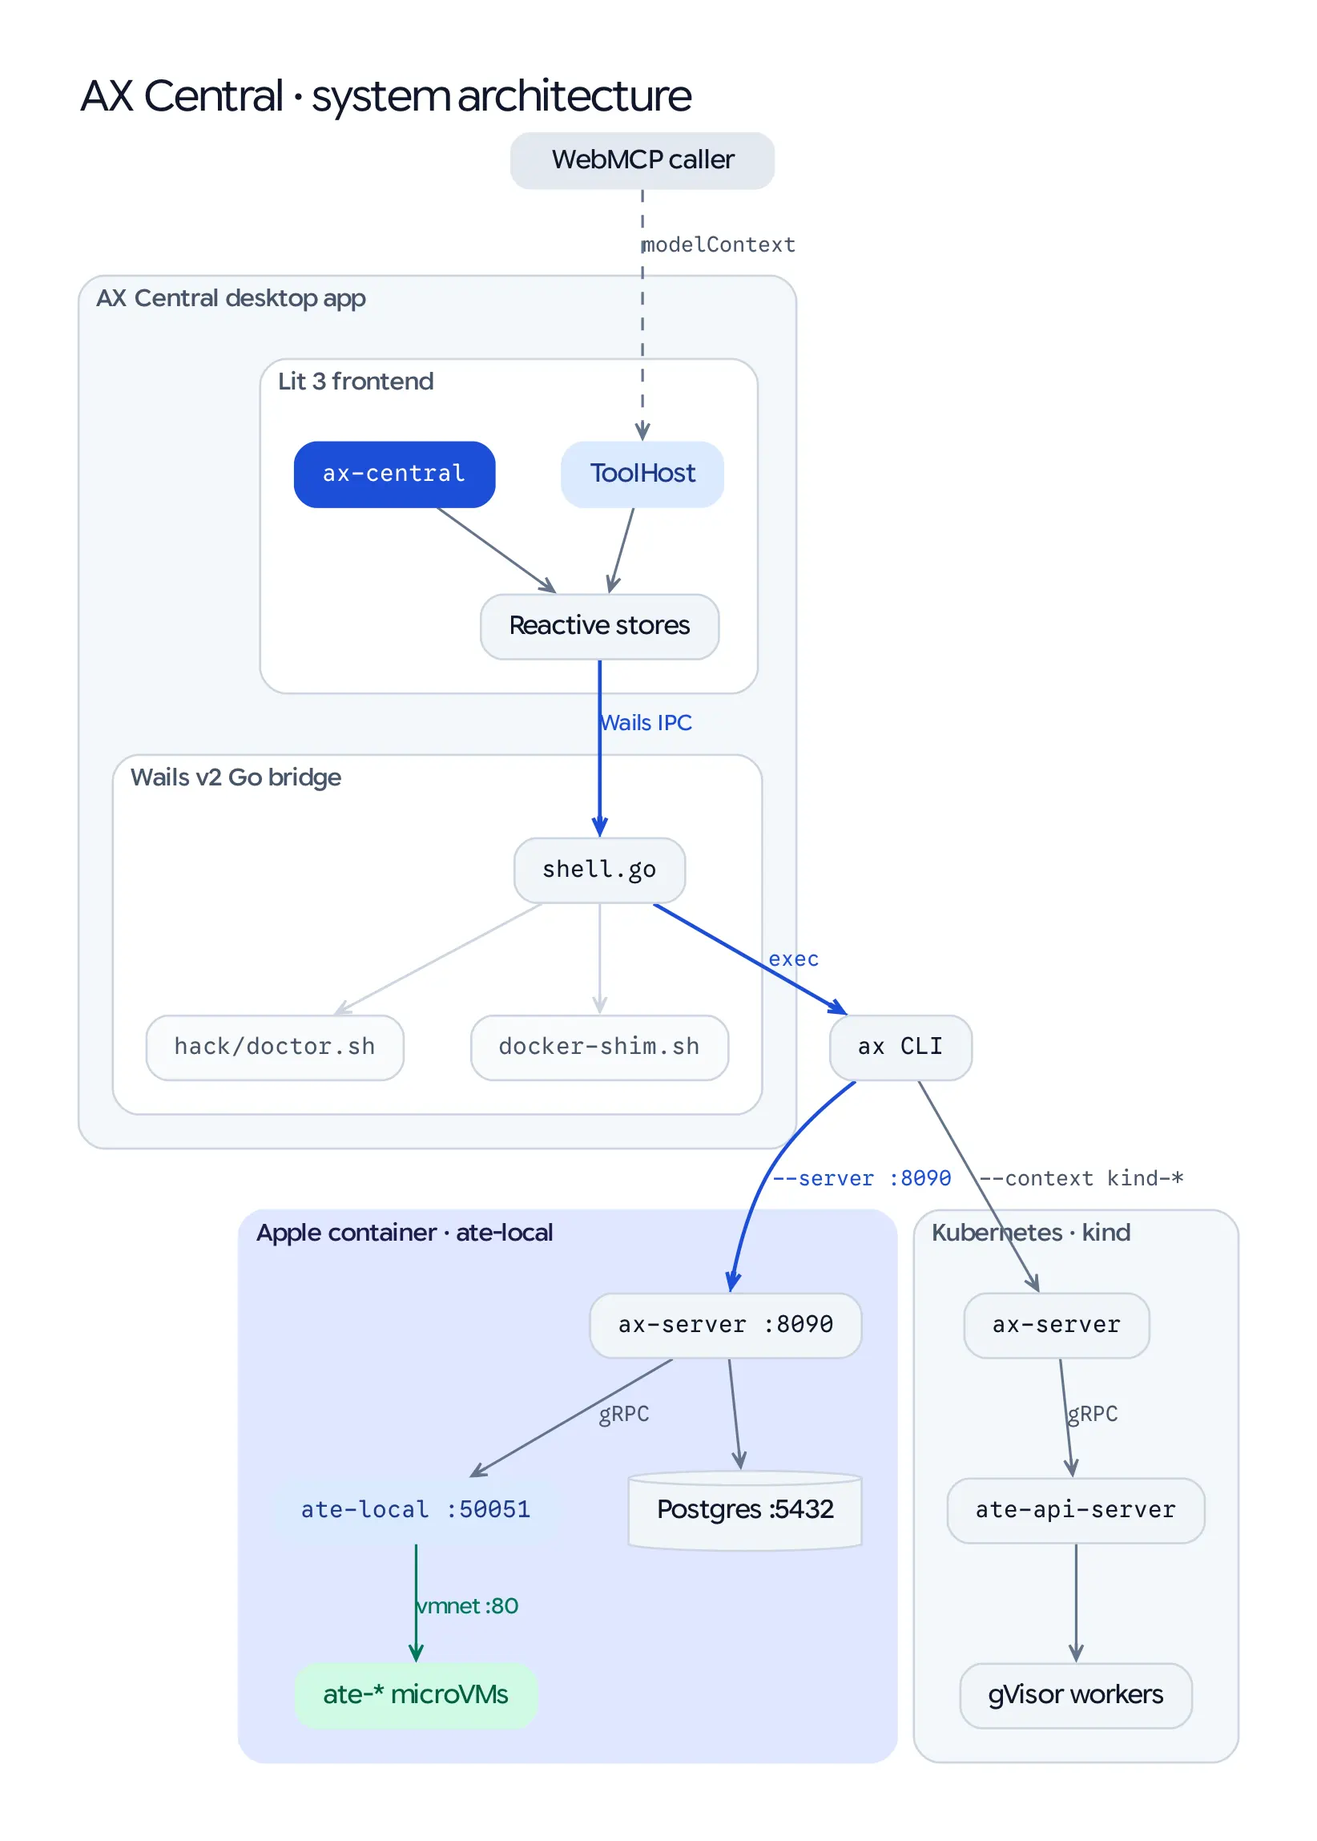
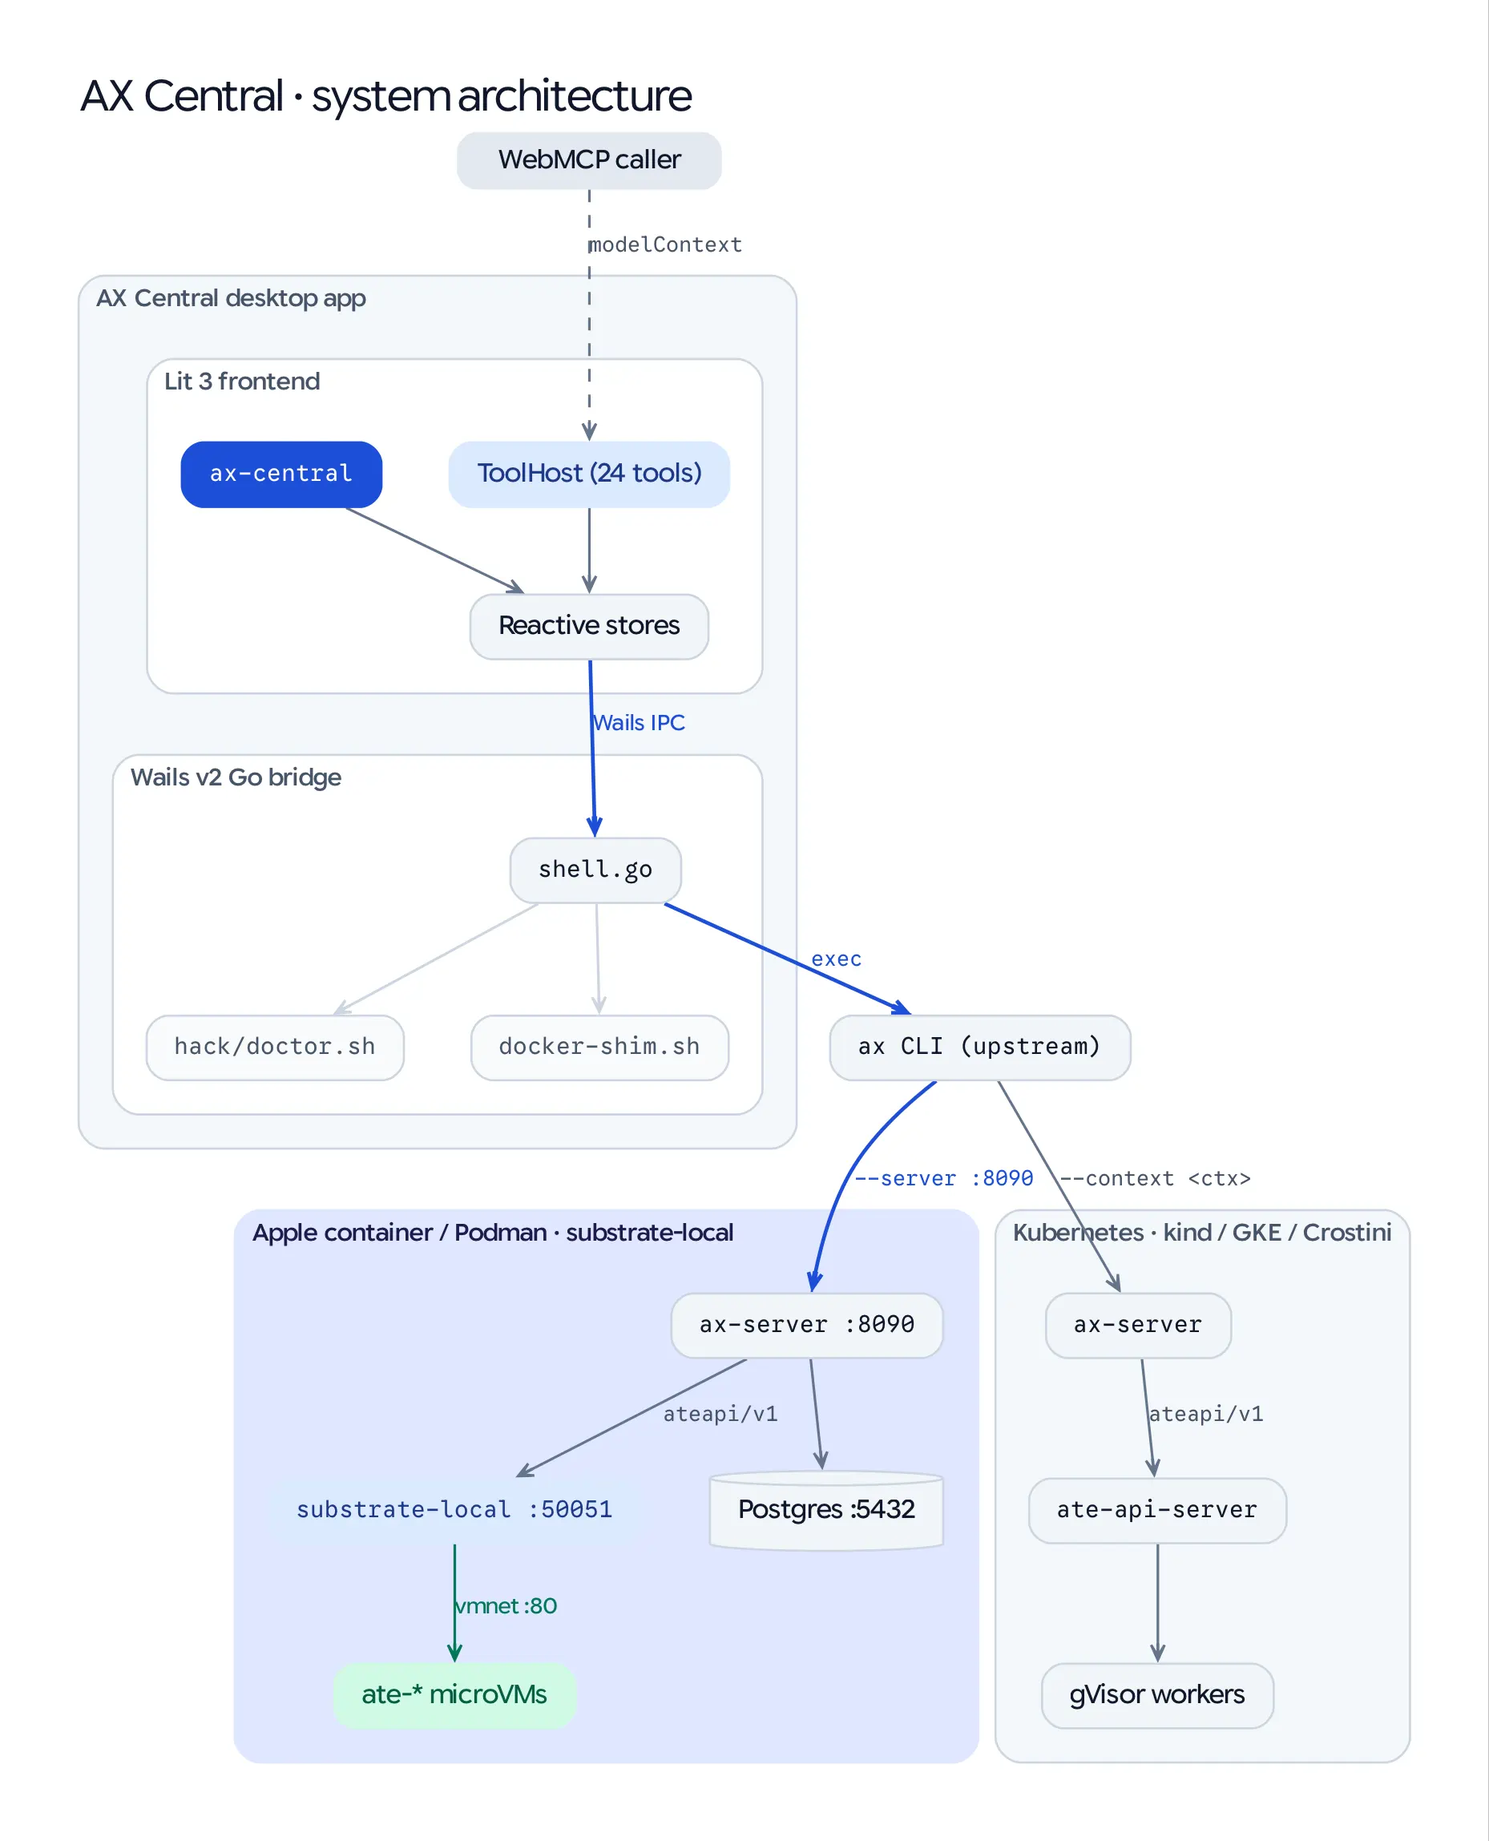
docs(sweep): align AX Central docs & Lustrous diagrams with substrate-local, agentexecutor/studio, and #731/#756 (ax-central-e90)
- Refresh docs/diagrams/01-architecture.dot (substrate-local :50051,
  24 WebMCP tools, multi-cluster K8s) and 02-task-lifecycle.dot (#731/#756
  pure control-plane lifecycle + Move Task) via make diagrams (lustrous.gvpr).
- Update architecture.md, quickstart-local-stack.md, manage-runtimes-and-clusters.md,
  hero-demo.md, cli-and-webmcp-tools.md, and move-task-and-studio-parity.md
  to reference ~/projects/substrate-local (scripts/ax-stack.sh) and official
  github.com/agentexecutor/studio (ax studio).

diff --git a/docs/explanation/architecture.md b/docs/explanation/architecture.md
@@ -1,6 +1,6 @@
 # Explanation: System Architecture and Dual-Substrate Design
 
-AX Central is a cross-platform desktop control plane (macOS, Linux, and Windows) built with **Wails v2** (Go) and **Lit 3 WebComponents** (TypeScript, Luminous 0.15–0.19 design tokens). Inspired by [@rakyll](https://github.com/rakyll)'s proposal in [google/ax#543](https://github.com/google/ax/issues/543) and prototype at [rakyll/ax-studio](https://github.com/rakyll/ax-studio), and developed within the [AX Experiments](https://github.com/ghchinoy/ax-experiments) repository, it connects a single declarative task designer and observability UI to two interchangeable compute substrates: **Apple `container` (`ate-local`)** on macOS and **Agent Substrate on Kubernetes (`kind`)** across macOS, Linux, and Windows.
+AX Central is a cross-platform desktop control plane (macOS, Linux, and Windows) built with **Wails v2** (Go) and **Lit 3 WebComponents** (TypeScript, Luminous 0.15–0.19 design tokens). Complementary to the official single-cluster [AX Studio](https://github.com/agentexecutor/studio) (`ax studio`, see [AX Central vs. AX Studio](ax-studio-comparison.md)), inspired by [google/ax#543](https://github.com/google/ax/issues/543), and developed within the [AX Experiments](https://github.com/ghchinoy/ax-experiments) repository, it connects a single declarative task designer, multi-agent topology/telemetry workbench, and stateful `Move Task` UI to interchangeable compute substrates: standalone **[`substrate-local`](https://github.com/ghchinoy/substrate-local)** (Apple `container` & rootless Podman) and **Agent Substrate on Kubernetes** (`kind`, Crostini, GKE, OrbStack, Tailscale).
 
 <picture>
   <source media="(prefers-color-scheme: dark)" srcset="../diagrams/01-architecture-dark.webp">
@@ -13,7 +13,7 @@ Desktop GUI applications on macOS launch under `launchd` with a minimal environm
 
 To ensure CLI tools behave identically whether AX Central is launched from Finder/Spotlight or a terminal:
 1. **Login-Shell `PATH` Discovery (`buildLoginPath`)**: On startup, `shell.go` invokes `$SHELL -ilc 'printf "__AXPATH__%s" "$PATH"'` with a 4-second timeout and merges the result with standard developer directories (`~/go/bin`, `~/.local/bin`, `/opt/homebrew/bin`, `/usr/local/bin`, `/usr/local/go/bin`).
-2. **Process-Group Streaming (`Stream` & `Cancel`) & OS Pipes (`Pipe`)**: Long-running scripts (`local-stack.sh up`, `setup-e2e-kind.sh`, `kubectl logs -f`, `container logs -f`) and interactive sessions (`StartSession`) spawn in their own OS process group (`proc_unix.go` `Setpgid: true` with `SIGINT` + `SIGTERM` + 100ms `SIGKILL`, and `proc_windows.go` `taskkill /T /F /PID`). `Shell.Pipe` connects two child `ax ssh` processes via a kernel `os.Pipe()` (with distinct `FromProgram`/`FromEnv` and `ToProgram`/`ToEnv`) so `<ax-move-task-modal>` and `move_task` stream `/workspace` tar archives directly between sandboxes without host disk buffering.
+2. **Process-Group Streaming (`Stream` & `Cancel`) & OS Pipes (`Pipe`)**: Long-running scripts (`scripts/ax-stack.sh up`, `setup-e2e-kind.sh`, `kubectl logs -f`, `container logs -f`) and interactive sessions (`StartSession`) spawn in their own OS process group (`proc_unix.go` `Setpgid: true` with `SIGINT` + `SIGTERM` + 100ms `SIGKILL`, and `proc_windows.go` `taskkill /T /F /PID`). `Shell.Pipe` connects two child `ax ssh` processes via a kernel `os.Pipe()` (with distinct `FromProgram`/`FromEnv` and `ToProgram`/`ToEnv`) so `<ax-move-task-modal>` and `move_task` stream `/workspace` tar archives directly between sandboxes without host disk buffering.
 3. **Interactive Sessions (`StartSession`)**: `<ax-terminal-session>` attaches to `ax ssh <task>` over piped `stdin`/`stdout`/`stderr`. The guest script negotiates a full `xterm-256color` PTY via `script(1)` when present in the container image, and falls back to `AXS-LINE-MODE` (with host-side echo, backspace handling, `Ctrl-C` `InterruptSession`, and `Ctrl-D` `EndSessionInput`) on minimal images without `script(1)`.
 4. **Shadow DOM Titlebar Dragging (`app.ts`)**: Wails v2's internal drag handler inspects `getComputedStyle(e.target).getPropertyValue("--wails-draggable")` on a `window` bubble-phase `mousedown` listener. Because `<ax-central>` uses a Shadow DOM root, browser event retargeting sets `e.target` to `<ax-central>`. A capture-phase `mousedown` listener on `<ax-central>` inspects `e.composedPath()` (`isTitlebarDragTarget`) and reflects `--wails-draggable: drag | no-drag` onto the host element before the event reaches `window`.
 5. **Multi-Layer Observability & OpenTelemetry Waterfall (`<ax-task-logs>`)**: `<ax-task-logs>` classifies log lines into `Guest`, `Substrate`, and `OTel` layers, extracts real-time cgroup memory working set/peak MiB, CPU time, and RustFS snapshot checkpoint latency, and merges in-sandbox Genkit OpenTelemetry spans (`msg="genkit otel span"`) with in-cluster Jaeger v2 distributed traces (`otel-system/deploy/jaeger` `/api/v3/traces/<id>`) into an inline span waterfall.

diff --git a/docs/tutorials/quickstart-local-stack.md b/docs/tutorials/quickstart-local-stack.md
@@ -24,12 +24,12 @@ On an Apple Silicon Mac configured for the local stack, `hack/doctor.sh` reports
 ```text
   [✓] Go & Wails toolchain             go1.26.0 + wails (/Users/you/go/bin/wails)
   [✓] Apple container runtime          /usr/local/bin/container (daemon running)
-  [✓] AX repo (ate-local variant)      /Users/you/projects/ax (branch: feat/ate-local-apple-container)
-  [✓] ate-local & arm64 task runner    /Users/you/projects/ax/.ax-local/bin ready
+  [✓] substrate-local daemon           /Users/you/projects/substrate-local (branch: main, upstream google/ax compatible)
+  [✓] substrate-local & ax-runner      /Users/you/projects/substrate-local/.substrate-local/bin ready
   [✓] ax-experiments & agent image     /Users/you/projects/ax-experiments + ax-agent-local:latest
 ```
 
-If any check reports a warning, run `make bootstrap` to clone the required branches and build `.ax-local/bin/{ax,ate-local,ax-server}` and `.ax-local/bin/linux_arm64/ax-runner` (with an `ax-task-runner` hard link for older images).
+If any check reports a warning, clone [`ghchinoy/substrate-local`](https://github.com/ghchinoy/substrate-local) into `~/projects/substrate-local` and run `make up` (or `make bootstrap` in `ax-central`) to build `.substrate-local/bin/{ax,substrate-local,ax-server}` and `.substrate-local/bin/linux_arm64/ax-runner` against unmodified upstream `google/ax`.
 
 You can verify the headless stack from your terminal at any time with:
 
@@ -53,12 +53,12 @@ make wails-build && open "build/bin/AX Central.app"
 2. Inspect the **Prerequisite Doctor** card on the right. If any dependency needs repair, click **Bootstrap All** (or the individual **Repair** button) to stream the build in the bottom console.
 3. Locate the **Apple Container (`ate-local`)** stack card:
    * If the status badge reads **Stopped**, click **Start**.
-   * The bottom **Output** console opens and streams `examples/ate_local/local-stack.sh up`.
-   * In about 3.3 seconds, all three layers report green (**Ready**):
+   * The bottom **Output** console opens and streams `~/projects/substrate-local/scripts/ax-stack.sh up` (falling back to `examples/ate_local/local-stack.sh up` if only the legacy fork is present).
+   * In about 2–3 seconds, all three layers report green (**Ready**):
      * **AX Control Plane** (`ax-server` listening on `127.0.0.1:8090`)
-     * **ate-local Substrate** (`ate-local` gRPC server listening on `127.0.0.1:50051`)
+     * **substrate-local** (`substrate-local` gRPC server listening on `127.0.0.1:50051`)
      * **Apple Container & PostgreSQL** (`ax-local-postgres` on `127.0.0.1:5432` and active `ate-*` microVMs)
-4. Click **Open Activity** on the card. AX Central sets the active context in the top toolbar to **`local`** and routes `ax` CLI commands to `localhost:8090` using `<repoPath>/.ax-local/bin/ax`.
+4. Click **Open Activity** on the card. AX Central sets the active context in the top toolbar to **`local`** and routes `ax` CLI commands to `localhost:8090` using `<substrateLocalPath>/.substrate-local/bin/ax`.
 
 <picture>
   <source media="(prefers-color-scheme: dark)" srcset="../screenshots/clusters-dark.webp">

diff --git a/docs/hero-demo.md b/docs/hero-demo.md
@@ -20,7 +20,7 @@ Before starting a live demo or screen recording, verify these four items:
   ```bash
   make -C ~/projects/ax-central doctor
   ```
-- **Podman Machine (Cluster B on `:8091`)**: Ensure `podman machine start` has been run if you want Step 5 to promote from Apple `container` microVMs to Podman containers (otherwise `local-stack.sh multi-up` falls back to a second isolated Apple `container` daemon).
+- **Podman Machine (Cluster B on `:8091`)**: Ensure `podman machine start` has been run if you want Step 5 to promote from Apple `container` microVMs to Podman containers (otherwise `scripts/ax-stack.sh multi-up` falls back to a second isolated Apple `container` daemon).
 - **Live Gemini API Key (`GEMINI_API_KEY`)**: Export `GEMINI_API_KEY` in your login shell (`~/.zshrc` or `~/.zprofile`) so `AX Central.app` inherits it via `shell.go` and Step 3 executes live multi-turn Gemini sessions (`live-gemini`) rather than offline mock turns.
 - **Warm Image Cache (recommended before recording)**: Pre-pull the three container images once across both Apple `container` and Podman so Steps 2–5 (and live `Move Task`) never wait on network downloads on camera:
   ```bash
@@ -40,8 +40,8 @@ To clear out earlier test tasks, PostgreSQL state, and leftover Apple `container
 # In ~/projects/ax: reset PostgreSQL + Cluster A, clear warm snapshot archives so
 # Step 2 demonstrates the cold-to-warm Tag pre-warm live, and boot Cluster B (:8091)
 cd ~/projects/ax && \
-  ./examples/ate_local/local-stack.sh reset && \
-  rm -rf .ax-local/snapshots/* && \
+  ./scripts/ax-stack.sh reset && \
+  rm -rf .substrate-local/snapshots/* && \
   make local-multi-up
 ```
 
@@ -127,7 +127,7 @@ Or press **`⌘I`** (**WebMCP Inspector**) inside `AX Central.app` and execute *
 
 ### Step 1: Local Up & Studio (`⌘5` Clusters)
 
-- **What runs**: `examples/ate_local/local-stack.sh multi-up` boots **Cluster A** (`ax-server :8090` + `ate-local` Control & embedded `atenet-router :50051` on Apple `container`) and **Cluster B** (`ax-server-b :8091` + `ate-local-b :50052` on Podman), sharing `~/projects/ax/.ax-local/snapshots`.
+- **What runs**: `~/projects/substrate-local/scripts/ax-stack.sh multi-up` boots **Cluster A** (`ax-server :8090` + `substrate-local` Control & embedded `atenet-router :50051` on Apple `container`) and **Cluster B** (`ax-server-b :8091` + `substrate-local-b :50052` on Podman/Apple), sharing `~/projects/substrate-local/.substrate-local/snapshots`.
 - **What to inspect in AX Central**:
   - In **Clusters (`⌘5`)**, both the **Apple Container (`ate-local`)** card and the **Podman Cluster B (`ate-local-b`)** card report `Ready`.
   - In the **AX v0.1 Hero Demo** card on the right, `1. Local Up & Studio` marks `PASS`.

diff --git a/docs/designs/move-task-and-studio-parity.md b/docs/designs/move-task-and-studio-parity.md
@@ -55,7 +55,7 @@ Developers prototyping AX tasks face four operational gaps today:
 
 *   **Given**: Task `local-task-01` runs on `local` with `spec.image: "debian:12"` (an un-digested tag that Kubernetes Agent Substrate rejects).
 *   **When**: The user opens **Move** on `local-task-01` and selects destination context `kind-ax-e2e`.
-*   **Then**: The modal detects that `debian:12` is not pinned by `@sha256:` and looks up its digest in a registry `kind-ax-e2e` can pull from (Docker Hub here), showing **Pins `debian:12` to `debian@sha256:…`**. On **Move**, `portable()` swaps the image for that pinned reference on the destination manifest, pipes `/workspace` over `ax ssh` from `.ax-local/bin/ax --server localhost:8090` to `.tmp/bin/ax --context kind-ax-e2e` (with `KUBECONFIG=.tmp/kubeconfig-ax-e2e`), and restarts the destination task. If the image exists only on this machine (for example `ax-agent-local:latest`), the modal asks for a published, digest-pinned image instead.
+*   **Then**: The modal detects that `debian:12` is not pinned by `@sha256:` and looks up its digest in a registry `kind-ax-e2e` can pull from (Docker Hub here), showing **Pins `debian:12` to `debian@sha256:…`**. On **Move**, `portable()` swaps the image for that pinned reference on the destination manifest, pipes `/workspace` over `ax ssh` from `.substrate-local/bin/ax --server localhost:8090` to `.tmp/bin/ax --context kind-ax-e2e` (with `KUBECONFIG=.tmp/kubeconfig-ax-e2e`), and restarts the destination task. If the image exists only on this machine (for example `ax-agent-local:latest`), the modal asks for a published, digest-pinned image instead. *(See also [AX Central vs. AX Studio (`agentexecutor/studio`)](../explanation/ax-studio-comparison.md) on why stateful `Move Task` stays an AX Central differentiator after `google/ax#694` and `agentexecutor/studio#28`.)*
 
 > **2026-11 update (AX v0.4):** Earlier versions dropped the unpinned image so the destination fell back to `AX_DEFAULT_TASK_IMAGE`. [google/ax#647](https://github.com/google/ax/pull/647) removed that default, so `CreateTask` now rejects a Task without an image, and a move pins the image instead. [google/ax#694](https://github.com/google/ax/issues/694) confirmed upstream `ax promote` copies specs only and won't migrate snapshots or data, so Move Task stays AX Central's way to carry `/workspace` across clusters.
 

diff --git a/docs/how-to/manage-runtimes-and-clusters.md b/docs/how-to/manage-runtimes-and-clusters.md
@@ -48,9 +48,9 @@ In **Clusters** (`⌘5`), the **Apple Container (`ate-local`)** card monitors th
 3. **Apple Container & PostgreSQL**: `ax-local-postgres` (`postgres:17-alpine` on `127.0.0.1:5432`) and active `ate-*` microVMs on `vmnet`.
 
 ### Lifecycle Controls
-* **Start / Restart Stack**: Executes `bash examples/ate_local/local-stack.sh up` inside `<repoPath>`, streaming build and startup logs to the bottom **Output** console.
-* **Stop**: Executes `bash examples/ate_local/local-stack.sh down`, stopping `ax-server`, `ate-local`, and `ax-local-postgres`.
-* **Reset**: Executes `bash examples/ate_local/local-stack.sh reset`, tearing down all `ate-*` actor containers and recreating a clean PostgreSQL store.
+* **Start / Restart Stack**: Executes `bash scripts/ax-stack.sh up` inside `<substrateLocalPath>` (`~/projects/substrate-local`, falling back to `<repoPath>/examples/ate_local/local-stack.sh up`), streaming build and startup logs to the bottom **Output** console.
+* **Stop**: Executes `bash scripts/ax-stack.sh down`, stopping `ax-server`, `substrate-local`, and `ax-local-postgres`.
+* **Reset**: Executes `bash scripts/ax-stack.sh reset`, tearing down all `ate-*` actor containers and recreating a clean PostgreSQL store.
 * **Open in Central**: Switches the active context in `store.ts` to `local`.
 
 ---
@@ -102,7 +102,7 @@ On machines where `podman` is installed without `docker`, `shell.go` writes the 
 
 1. Click the **Settings** gear icon in the top-right toolbar (or press **`⌘,`**).
 2. Configure:
-   * **`ax` binary**: Path or command name for the `ax` CLI (defaults to `ax`; `store.ts` automatically prefers `<repoPath>/.ax-local/bin/ax` when targeting `local` and `<repoPath>/.tmp/bin/ax` or `<repoPath>/bin/ax` when targeting Kubernetes clusters).
+   * **`ax` binary**: Path or command name for the `ax` CLI (defaults to `ax`; `store.ts` automatically prefers `<substrateLocalPath>/.substrate-local/bin/ax` when targeting `local` and `<repoPath>/.tmp/bin/ax` or `<repoPath>/bin/ax` when targeting Kubernetes clusters).
    * **AX repository**: Path to your `ax` checkout (defaults to `~/projects/ax`).
    * **AX Experiments**: Path to your `ax-experiments` checkout (defaults to `~/projects/ax-experiments`).
    * **Local `AX_SERVER`**: Address of the local `ax-server` (defaults to `localhost:8090`).

diff --git a/docs/reference/cli-and-webmcp-tools.md b/docs/reference/cli-and-webmcp-tools.md
@@ -115,6 +115,6 @@ All resource, context, and atespace names passed to WebMCP tools are validated b
 | `remove_image_registry` | *(none)* | `{ id: string }` | Removes a custom image registry from the catalog by ID or prefix. |
 | `resolve_image_digest` | *(none)* | `{ image?: string, update_draft?: boolean }` | Resolves and pins the `@sha256:` manifest digest for an image reference. |
 | `list_clusters` | `readOnly` | `{}` | Returns container runtime info, `ate_local` stack health and microVM list, and `kind` `clusters`. |
-| `manage_local_stack` | `consequential` | `{ action: "up" \| "down" \| "reset" \| "status" \| "use" \| "multi-up" \| "multi-down" \| "use-b" }` | Starts, stops, resets, queries, or switches to the local Apple `container` / Podman (`ate-local` / `ate-local-b`) stacks via `examples/ate_local/local-stack.sh`. |
+| `manage_local_stack` | `consequential` | `{ action: "up" \| "down" \| "reset" \| "status" \| "use" \| "multi-up" \| "multi-down" \| "use-b" }` | Starts, stops, resets, queries, or switches to the local Apple `container` / Podman (`substrate-local`) stacks via `~/projects/substrate-local/scripts/ax-stack.sh` (with fallback to `examples/ate_local/local-stack.sh`). |
 | `run_hero_demo` | `consequential` | `{ attach?: boolean, keep_stack?: boolean, step?: number }` | Executes the 5-step AX v0.1 Hero Demo (`hero-demo/run-live.sh`) across Cluster A & Cluster B and returns the `5/5` scoreboard. |
-| `check_prerequisites` | `readOnly` | `{}` | Runs `hack/doctor.sh --json` to audit `go`, `/usr/local/bin/container`, `~/projects/ax` (`feat/ate-local-apple-container`), `.ax-local/bin/*`, `~/projects/ax-experiments`, `ax-agent-local:latest`, and `kind`/`kubectl`/`docker`/`podman`. |
+| `check_prerequisites` | `readOnly` | `{}` | Runs `hack/doctor.sh --json` to audit `go`, `/usr/local/bin/container`, `~/projects/substrate-local` (`.substrate-local/bin/*`), `~/projects/ax-experiments`, `ax-agent-local:latest`, and `kind`/`kubectl`/`docker`/`podman`. |
